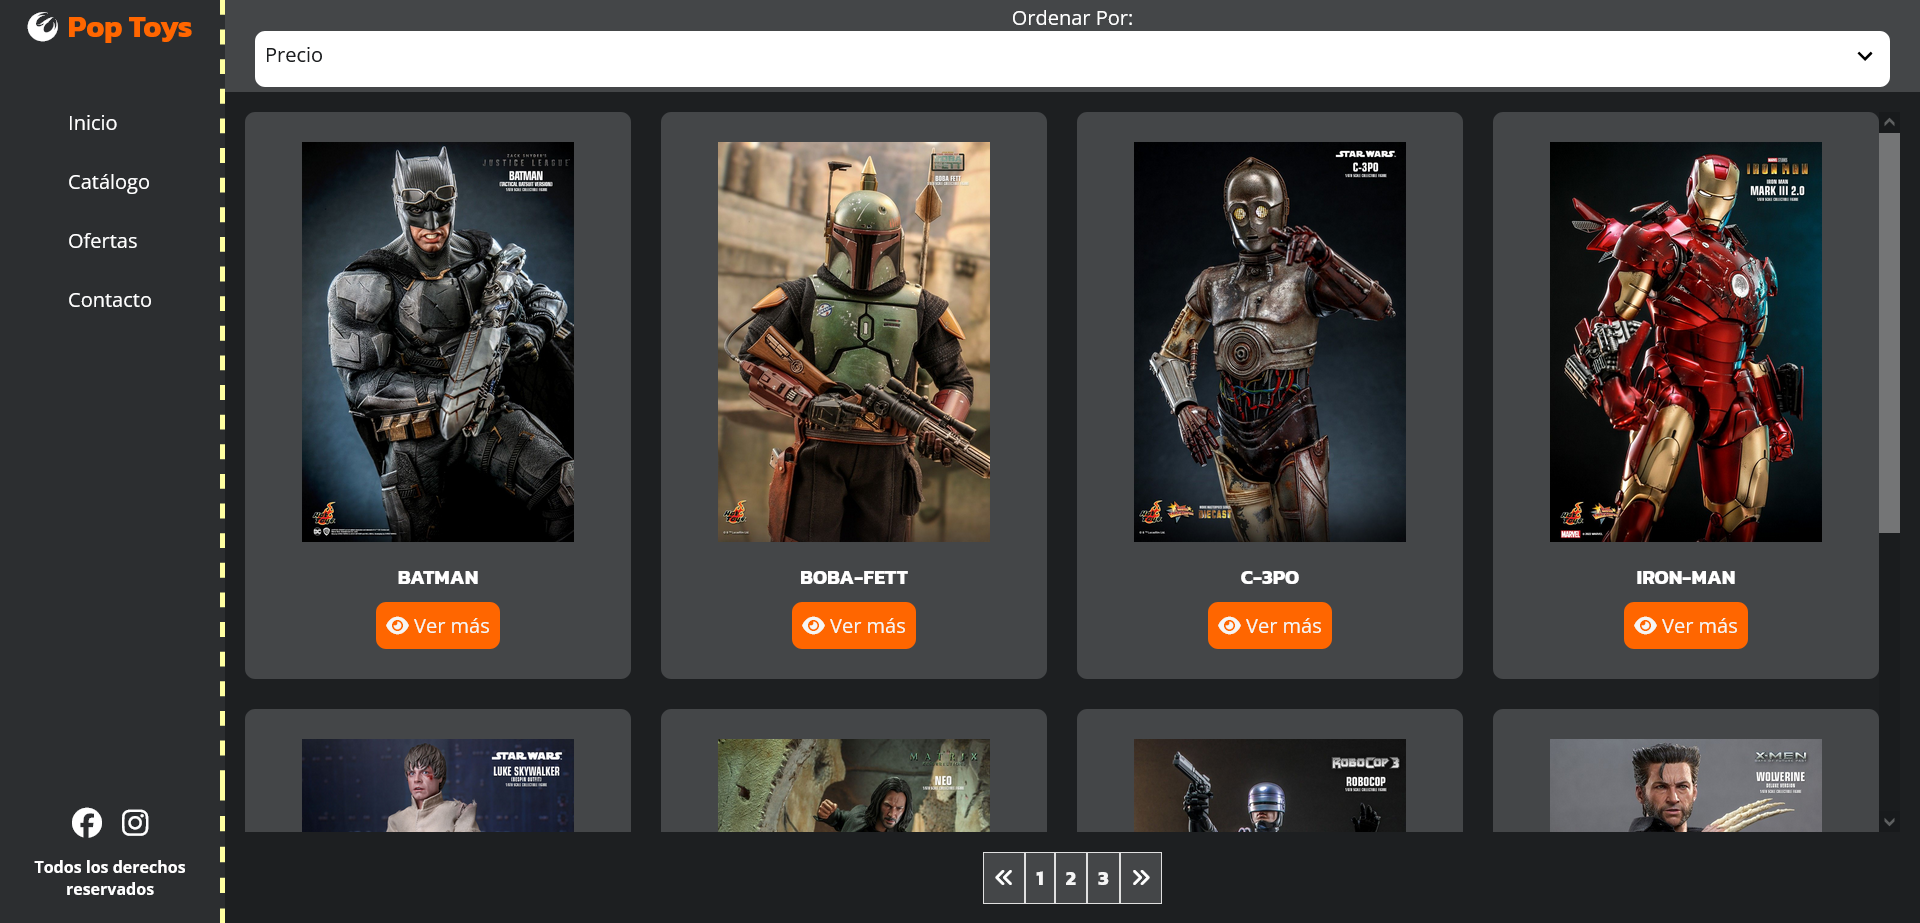
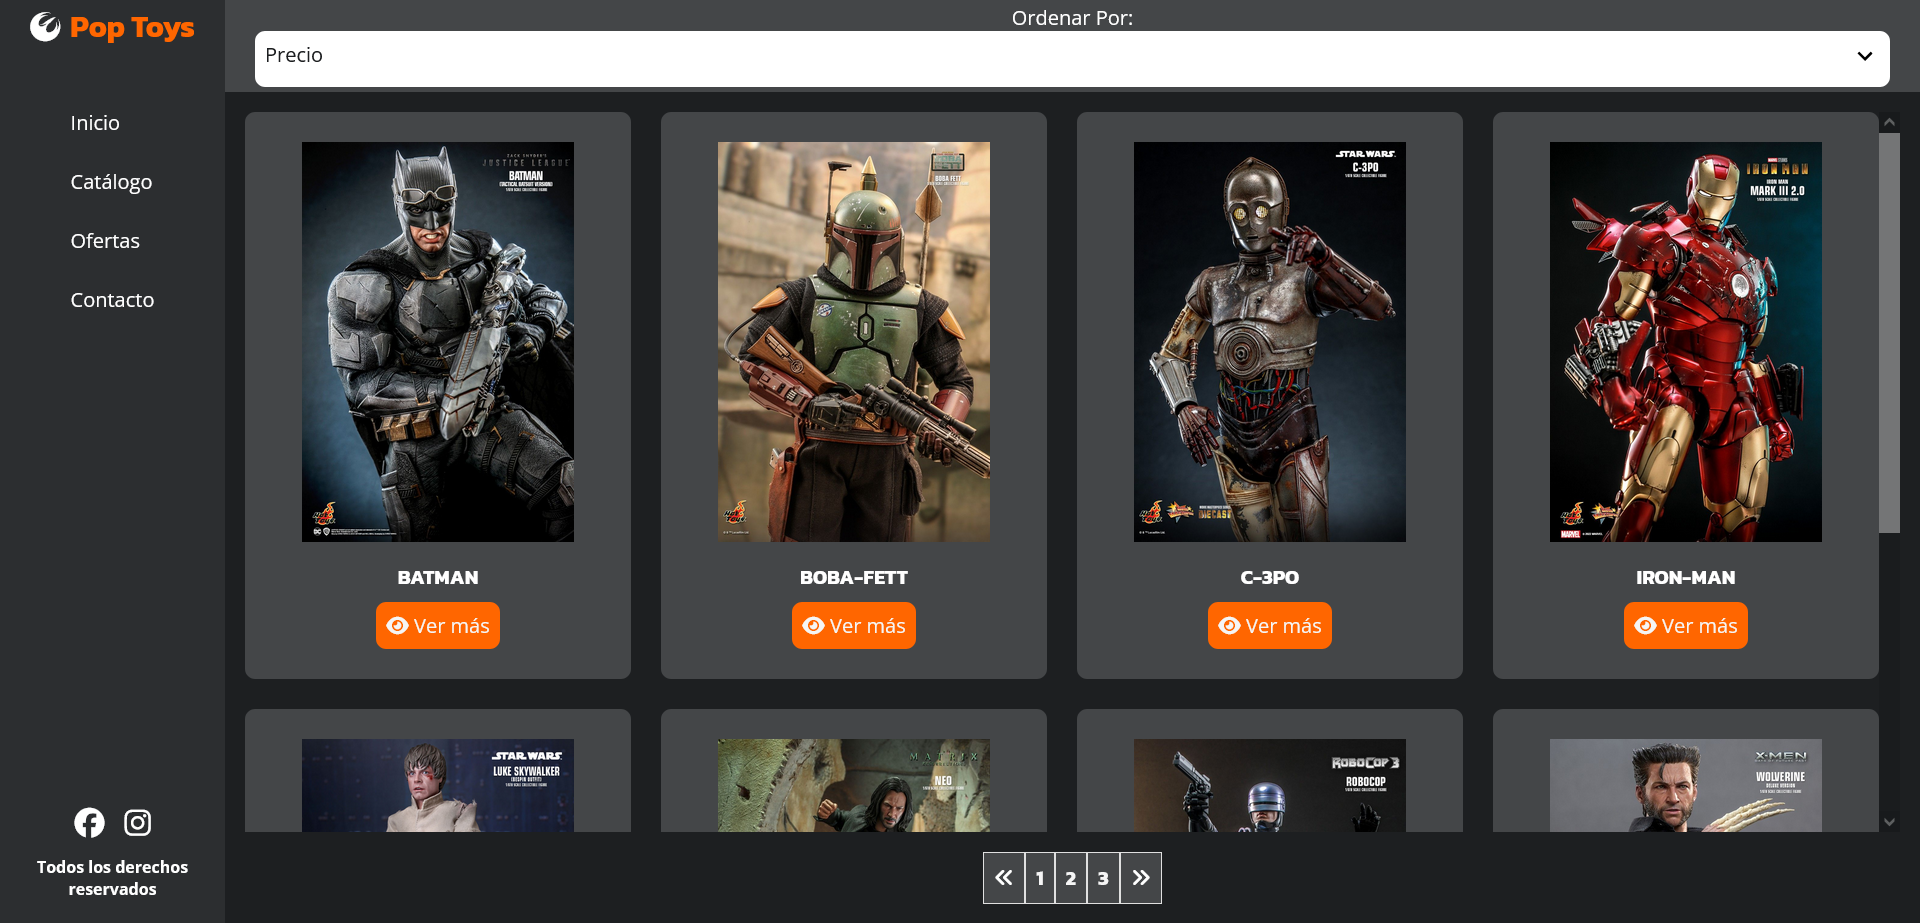
actualizacion css, se agrega nueva screenshot

diff --git a/assets/css/style.css b/assets/css/style.css
@@ -71,7 +71,6 @@ header {
     display: flex;
     justify-content: center;
     align-items: center;
-    border-bottom: 4px dashed #ffffa1;
 }
 
 .search-container {
@@ -257,7 +256,6 @@ footer {
         flex-direction: column;
         justify-content: flex-start;
         row-gap: 2em;
-        border-right: 4px dashed #ffffa1;
     }
 
     .brand-container {
@@ -301,11 +299,6 @@ footer {
         display: grid;
         grid-template-columns: 1fr 1fr;
         gap: 1em;
-    }
-
-    /* Footer */
-    footer {
-        border-right: 4px dashed #ffffa1;
     }
 }
 

diff --git a/README.md b/README.md
@@ -12,7 +12,11 @@ Diseñé la página web con dos layouts distintos: uno para dispositivos móvile
 
 ¡Aquí está el resultado final de mi proyecto!
 
+### Escritorio 💻
 ![Captura de pantalla](./Screenshot.png)
+
+### Móvil 📱
+![Captura de pantalla](./Screenshot-mobile.png)
 
 ### Observaciones y Recomendaciones 🧐
 
